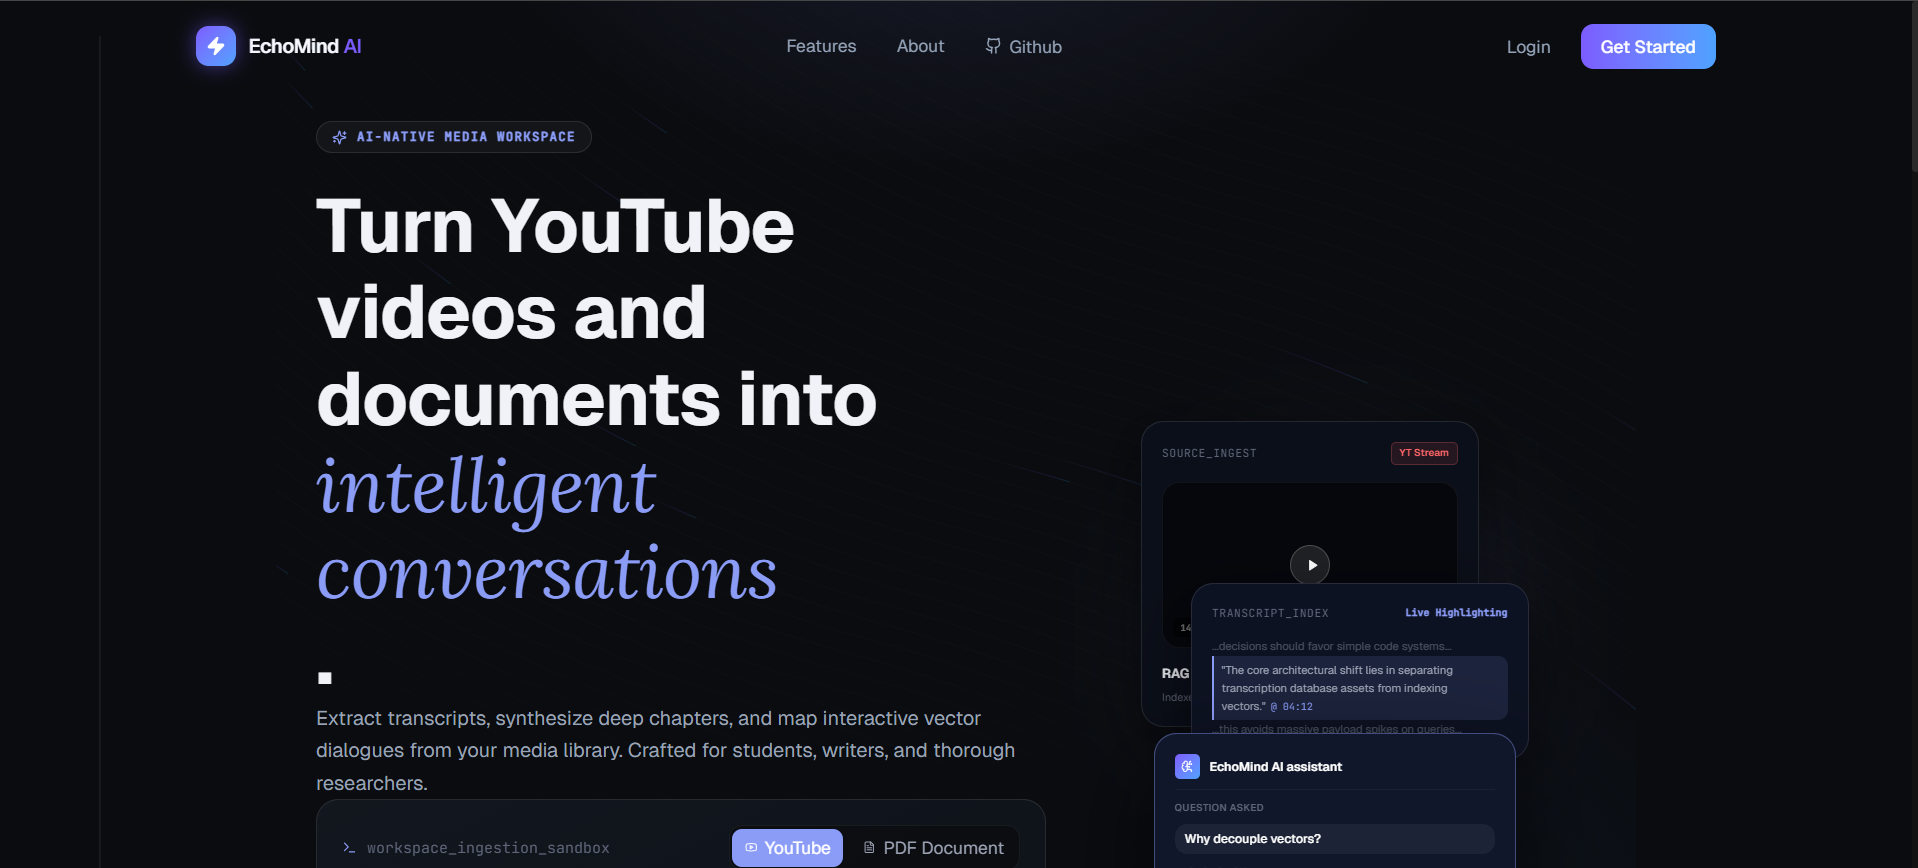
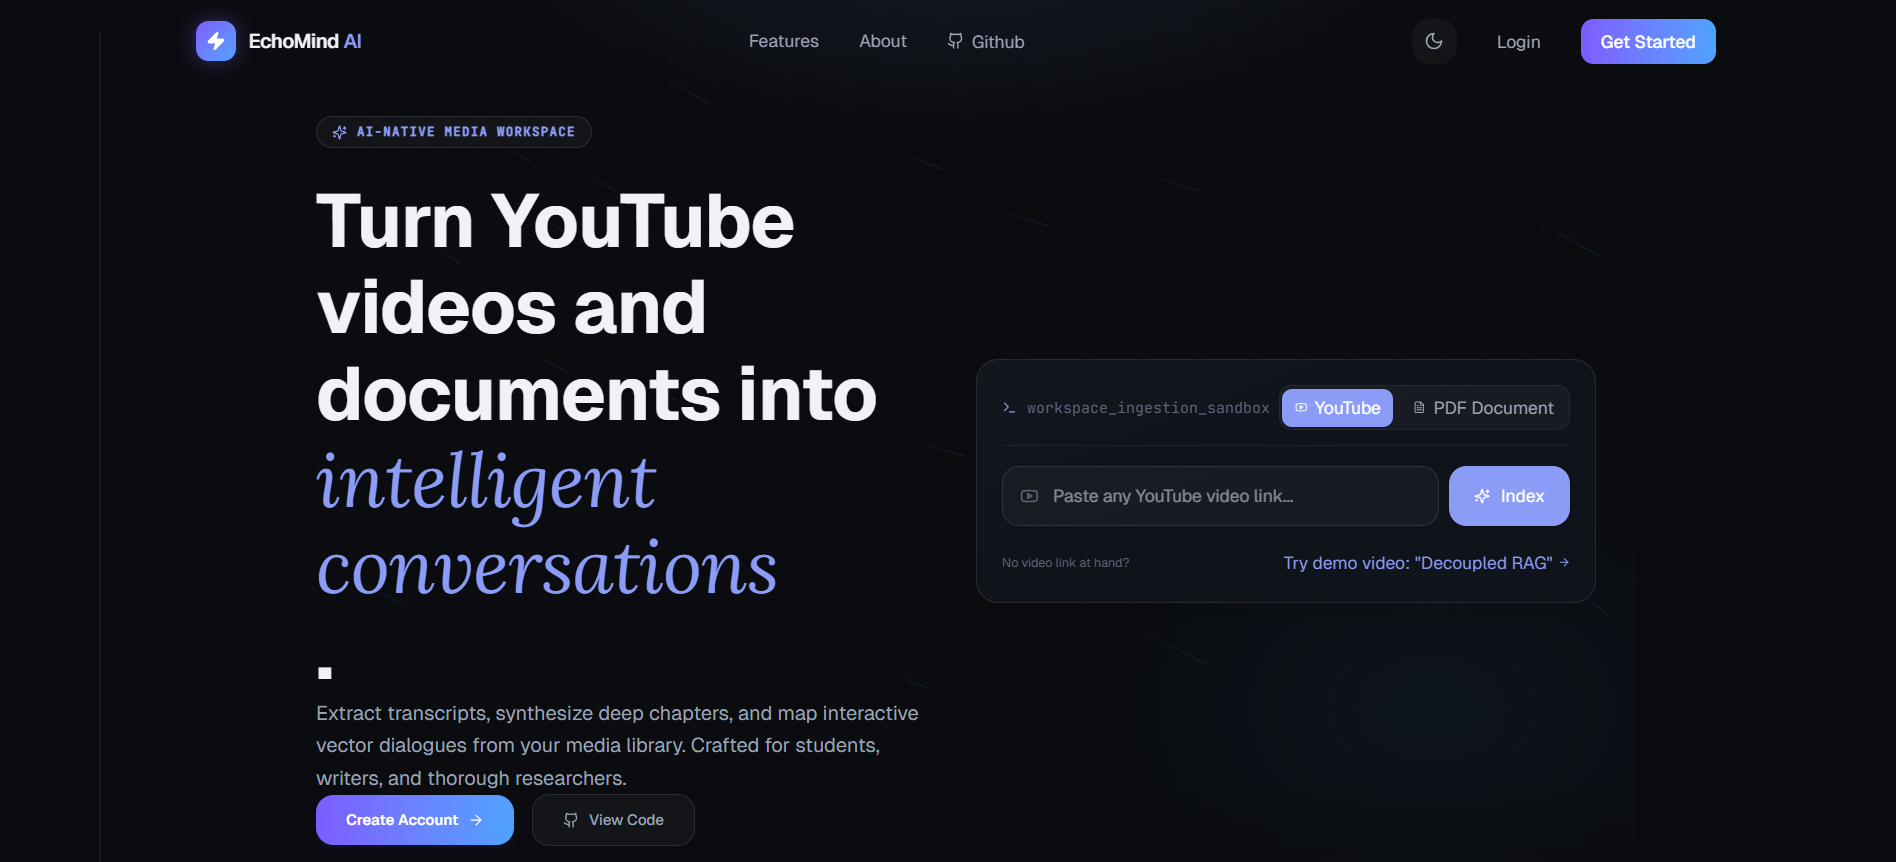
Updated: README with added new workspace image

diff --git a/README.md b/README.md
@@ -19,9 +19,9 @@ It has a responsive dark-mode interface, simple login/signup (including Google L
 
 ## 📸 Screenshots
 
-| Dashboard | AI Chat Interface |
-| :---: | :---: |
-| ![Landing Page](./frontend/public/landing.png) | ![Chat Interface](./frontend/public/dashboard.png) |
+| Dashboard | AI Chat Interface | PDF Citation Workspace |
+| :---: | :---: | :---: |
+| ![Landing Page](./frontend/public/landing.png) | ![Chat Interface](./frontend/public/dashboard.png) | ![PDF Citation Workspace](./frontend/public/workspace.png) |
 
 ---
 
